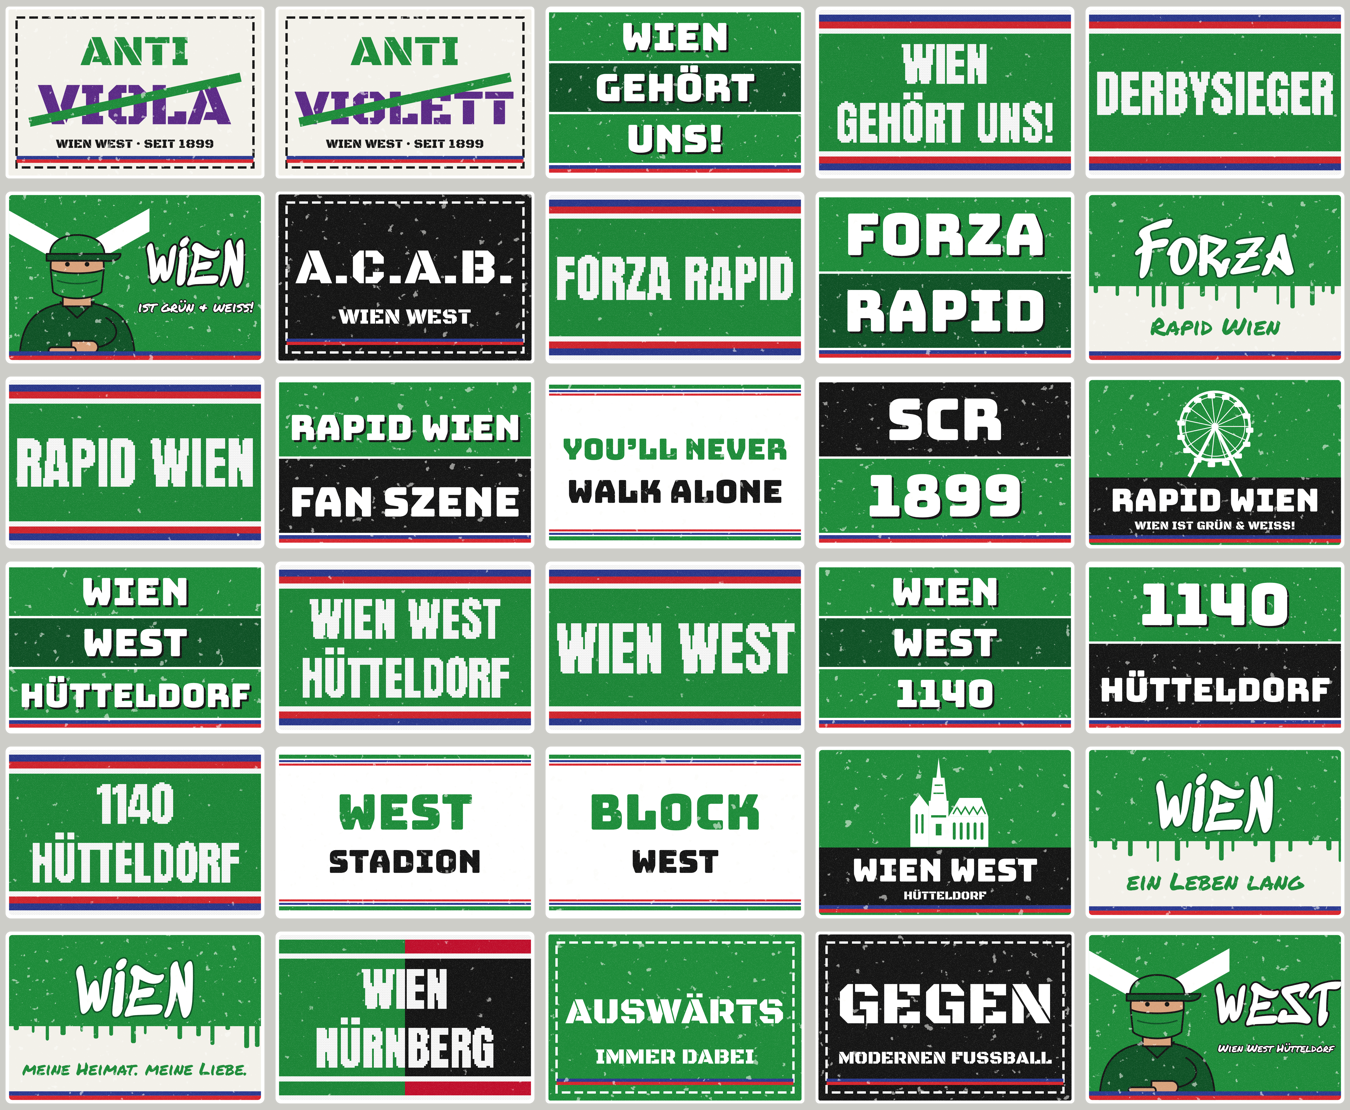
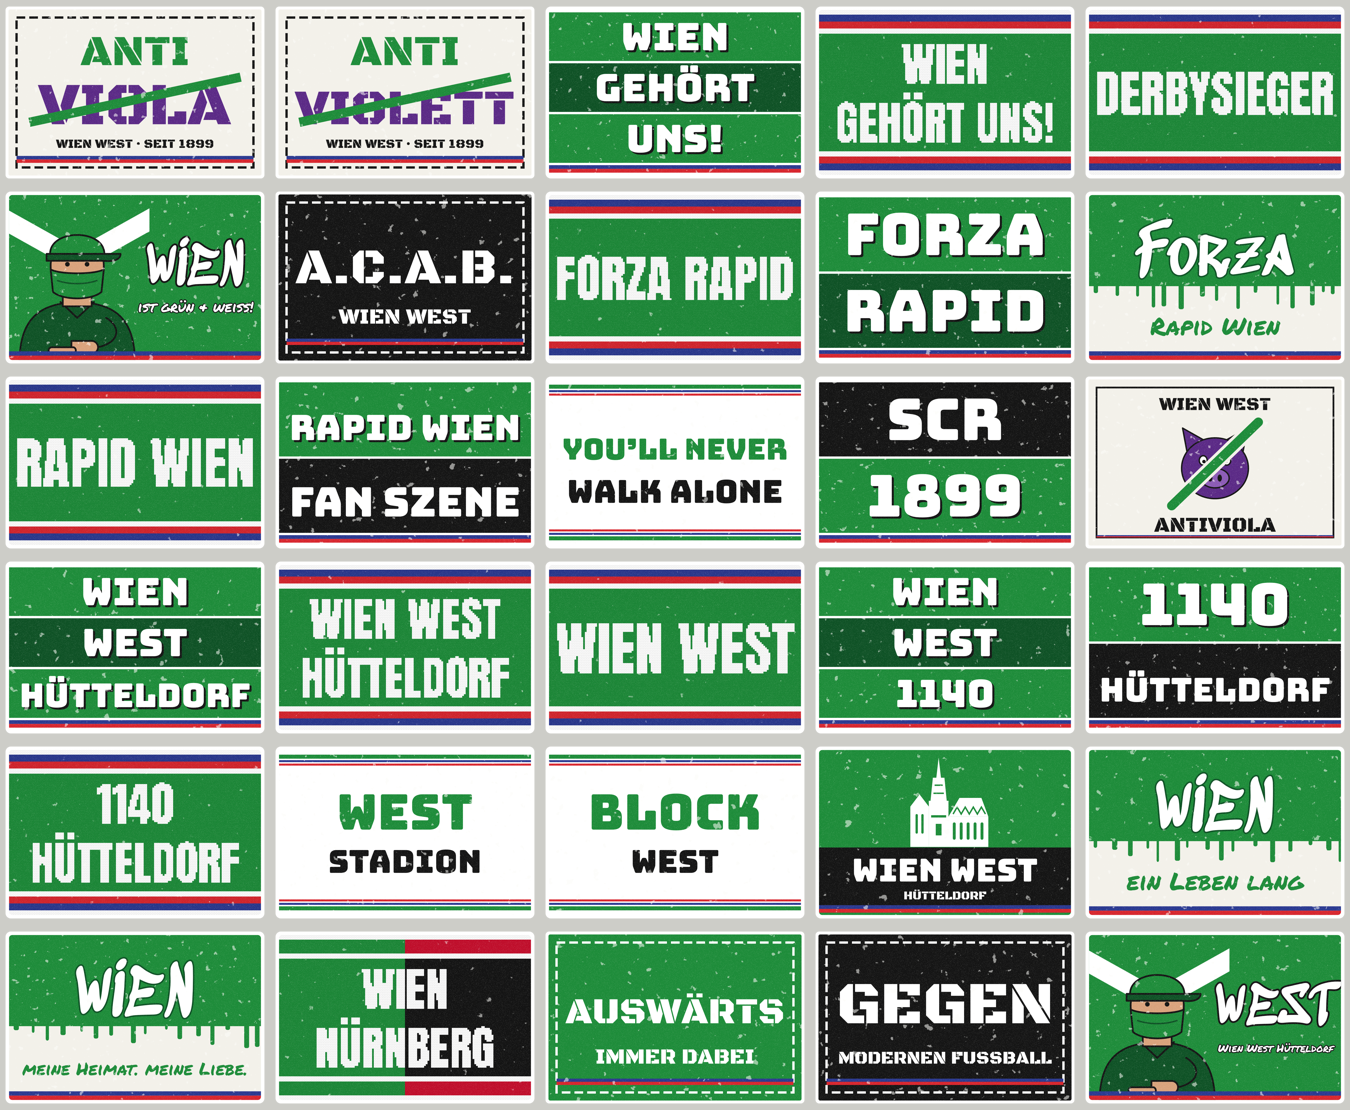
Riesenrad durch Antiviola-Schwein ersetzt; Druckdaten-Skripte (600 dpi, CutContour)
Claude-Session: https://claude.ai/code/session_01FF2MfsrsB5CXejmzawvVj5

Changed region(s): [[0.8089, 0.3369, 0.9956, 0.4901]]

diff --git a/scripts/druck-pdf.py b/scripts/druck-pdf.py
@@ -1,0 +1,29 @@
+# Baut druckfertige PDFs: 94 × 64 mm Seite (2 mm Beschnitt), Motiv 90 × 60 mm, Schnittkontur als Sonderfarbe "CutContour"
+import glob, os, sys
+from reportlab.pdfgen import canvas
+from reportlab.lib.units import mm
+from reportlab.lib.colors import CMYKColorSep, white
+
+ROOT = os.path.dirname(os.path.dirname(os.path.abspath(__file__)))
+PNG = sorted(glob.glob(os.path.join(ROOT, 'druck/png/*.png')))
+OUT = os.path.join(ROOT, 'druck/pdf'); os.makedirs(OUT, exist_ok=True)
+B = 2 * mm; W, H = 90 * mm, 60 * mm
+cut = CMYKColorSep(0, 1, 0, 0, spotName='CutContour', density=1)
+
+def seite(c, png):
+    c.setFillColor(white); c.rect(0, 0, W + 2 * B, H + 2 * B, stroke=0, fill=1)
+    c.drawImage(png, B, B, W, H)
+    c.setStrokeColor(cut); c.setLineWidth(0.25)
+    try: c.setStrokeOverprint(True)
+    except Exception: pass
+    c.roundRect(B + 0.2 * mm, B + 0.2 * mm, W - 0.4 * mm, H - 0.4 * mm, 1.8 * mm, stroke=1, fill=0)
+
+alle = canvas.Canvas(os.path.join(OUT, '00-ALLE-30-MOTIVE.pdf'), pagesize=(W + 2 * B, H + 2 * B))
+alle.setTitle('Wien West Sticker – 30 Motive')
+for p in PNG:
+    name = os.path.splitext(os.path.basename(p))[0]
+    c = canvas.Canvas(os.path.join(OUT, name + '.pdf'), pagesize=(W + 2 * B, H + 2 * B))
+    c.setTitle(name); seite(c, p); c.showPage(); c.save()
+    seite(alle, p); alle.showPage()
+alle.save()
+print(len(PNG), 'PDFs')

diff --git a/src/content/sticker/antiviola-schwein.md b/src/content/sticker/antiviola-schwein.md
@@ -1,0 +1,24 @@
+---
+name: "Antiviola – Schwein"
+kurz: "Violettes Schwein, grün durchgestrichen. Antiviola im alten Siebdruck-Look."
+typ: einzel
+kategorie: derby
+preis: 2.5
+stueck: 1
+format: "ca. 9 × 6 cm"
+bild: /sticker/antiviola-schwein.svg
+bildPng: /sticker/antiviola-schwein.png
+bestseller: true
+verfuegbar: true
+sku: WW-015
+reihenfolge: 15
+shopifyVariantId: ""
+seo:
+  title: "Antiviola – Schwein – Sticker | Wien West"
+  description: "Violettes Schwein, grün durchgestrichen. Antiviola im alten Siebdruck-Look. Wetterfester Vinyl-Sticker, gratis Versand ab 15 €."
+  noindex: false
+---
+Violettes Schwein, grün durchgestrichen. Antiviola im alten Siebdruck-Look.
+
+**Material:** wetterfestes Vinyl mit matter Schutzlaminierung, wasserfest und UV-beständig [PLATZHALTER: mit Druckerei abgleichen].
+**Format:** ca. 9 × 6 cm.
